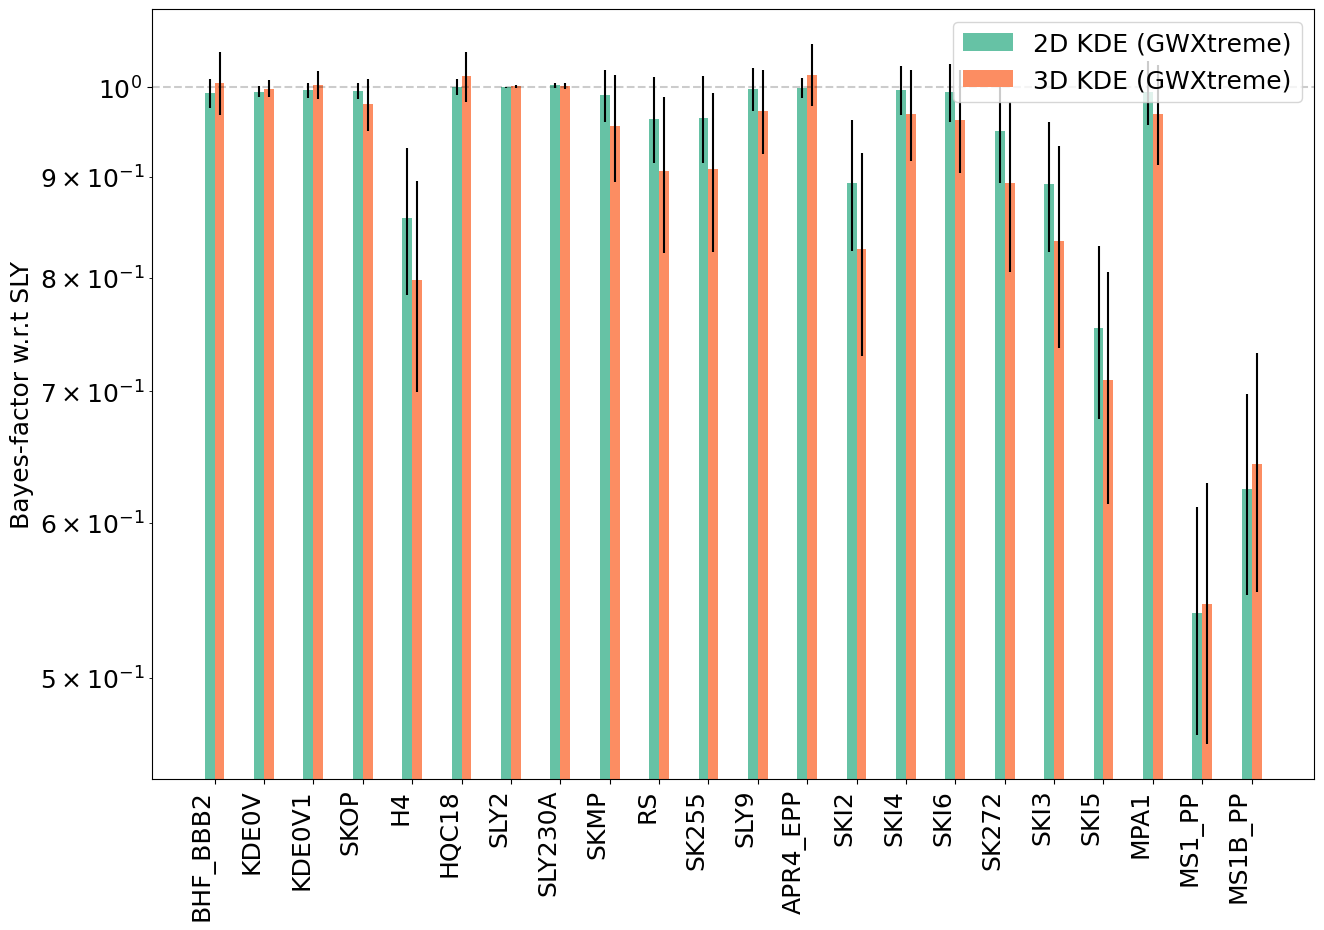
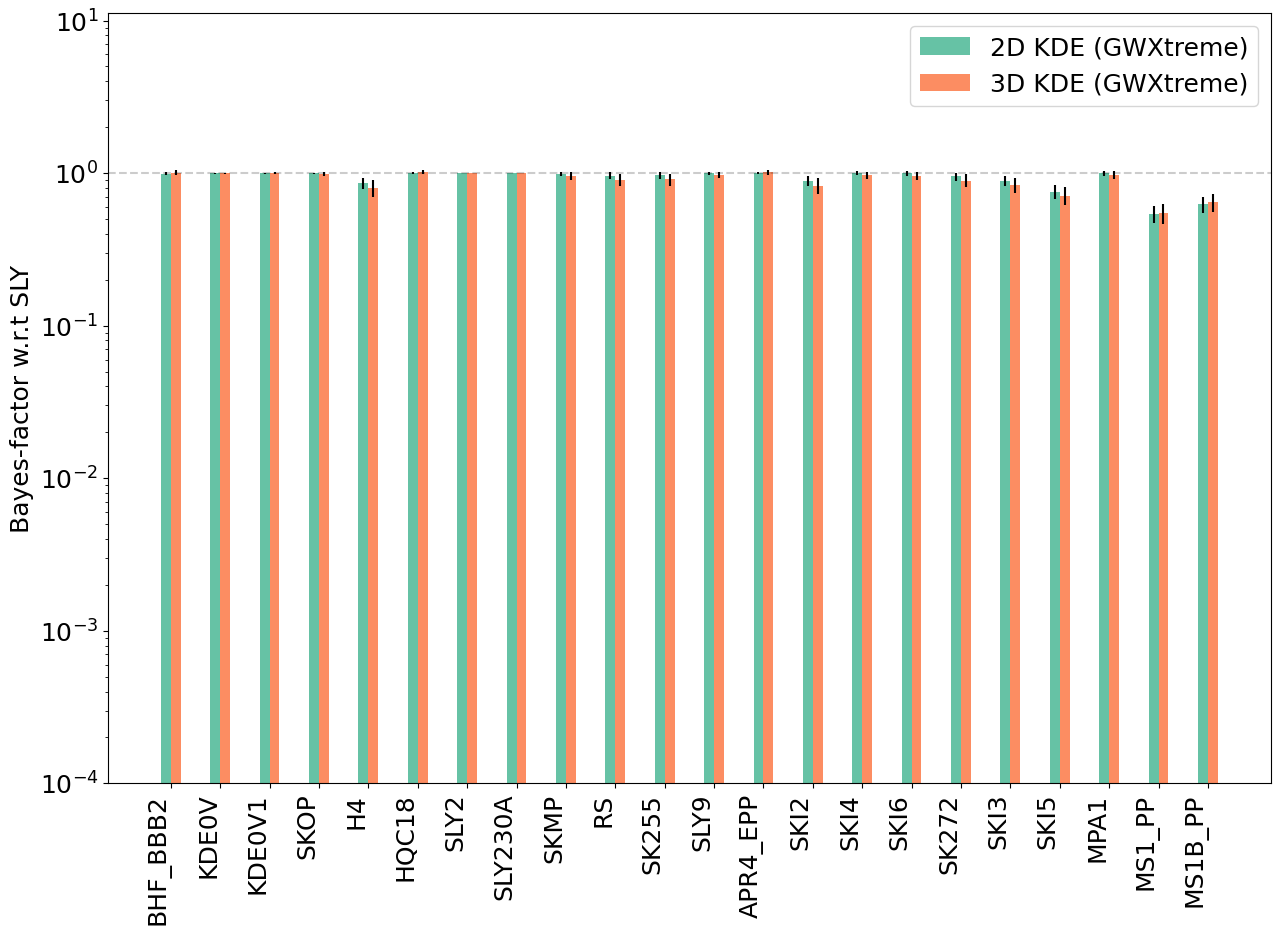
Slightly modified plots to have their legends higher

diff --git a/year3/PhenomTaylorCompare/simulationBFs_GWXtreme2024Paper.py b/year3/PhenomTaylorCompare/simulationBFs_GWXtreme2024Paper.py
@@ -112,6 +112,7 @@ def singleEventPlots():
 
         plt.yscale("log")
         plt.xticks(x_axis,eosList,rotation=90,ha="right")
+        plt.ylim(1.0e-4,(max(BFs)+max(uncerts))*10.)
         plt.axhline(1.0,color="k",linestyle="--",alpha=0.2)
         plt.ylabel("Bayes-factor w.r.t SLY")
         plt.legend()
